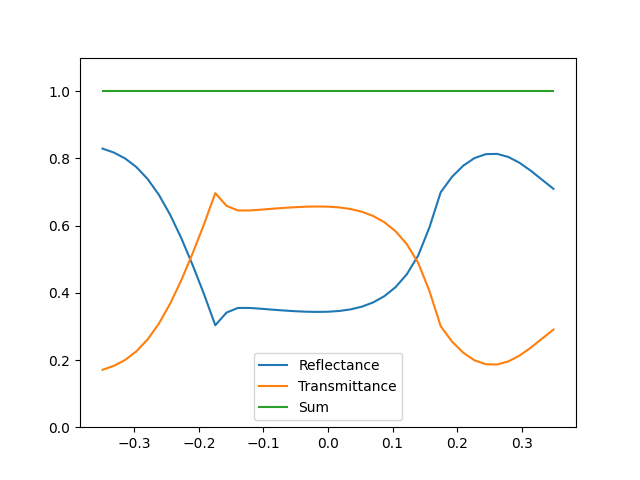
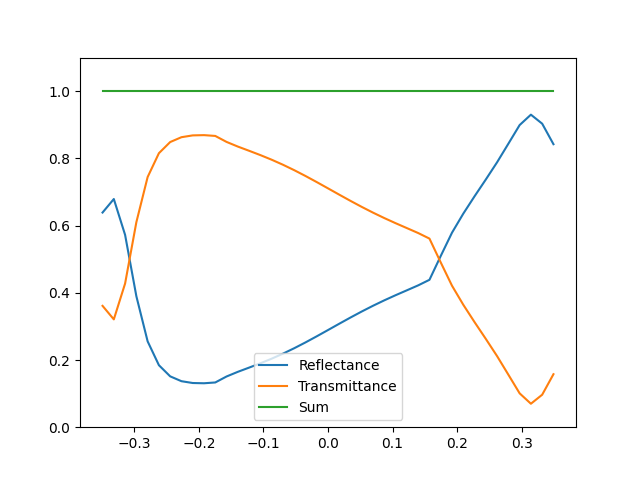
New figure

diff --git a/grcwa/ilic_replication/ilic_GRCWA_rt.py b/grcwa/ilic_replication/ilic_GRCWA_rt.py
@@ -5,7 +5,7 @@ from matplotlib import pyplot as plt
 Being numerical in nature, I need to define the truncation order of the fourier decomposition as well as the resolution of the unit cell.
 '''
 # Truncation order
-nG = 30
+nG = 50
 # Resolution 
 Nx = 10000
 Ny = 1
@@ -17,38 +17,35 @@ of subwavelength thickness. The side-view looks like
 
      w_1      w_2
   <------>   <--->
-   ______     ____               ^ z
-  |      |   |    |              |
-__|      |___|    |___           X-----> x
+   ____     ______               ^ z
+  |    |   |      |              |
+__|    |___|      |___           X-----> x
 -----|---------|----->            y
     x_1       x_2
 
-<--------- d -------->
+<----- d ----->
 
 The resonators are made of silicon, while the substrate is SiO2 (silicon dioxide). The
 height of both the resonators and the substrate is 0.5 microns. Ilic & Atwater use
-d = 1.8 microns; x_1 = 0.25d; x_2 = 0.85d; w_1 = 0.15d; w_2 = 0.35d. 
+d = 1.8 microns; x_1 = 0.25d; x_2 = 0.85d; w_1 = 0.35d; w_2 = 0.15d. 
 
 They also assume an incident beam of lambda = 1.5 microns. Note that natural units
 measure distance in units of the Bohr radius. 
 '''
-# Micron           
-
 # Defining Ilic dimensions
 d = 1.8  # unit cell width
 dy = 1e-4
-x1 = 0.85*d # positions of blocks in unit cell
-x2 = 0.25*d 
-w1 = 0.15*d # width of blocks in unit cell
-w2 = 0.35*d
+x1 = 0.25*d # positions of blocks in unit cell
+x2 = 0.85*d 
+w1 = 0.35*d # width of blocks in unit cell
+w2 = 0.15*d
 
 h = 0.5  # thickness of resonator layer
 t = 0.5  # also equal to thickness of substrate layer
 
 wavelength = 1.5
 freq = 1./wavelength
-thetas = np.linspace(-20*np.pi/180, 20*np.pi/180, 41)
-phi = 0.
+thetas = np.linspace(-20*np.pi/180, 20*np.pi/180, 81)
 
 '''
 By convention, GRCWA uses:
@@ -58,14 +55,14 @@ By convention, GRCWA uses:
 Similar to the natural units of particle and atomic physics. I will choose the permitivity of the dielectric material to be 10, and the width of the square unit cell to be 1.5. 
 '''
 E_vacuum = 1.
-E_Si = 3.5**2    # https://refractiveindex.info/ with k = n^2 (dielectric constant, refractive index)
+E_Si = 3.5**2     # https://refractiveindex.info/ with k = n^2 (dielectric constant, refractive index)
 E_SiO2 = 1.45**2  # https://refractiveindex.info/ with k = n^2 (dielectric constant, refractive index)
 
 
 '''
 The lattice is made below.
 '''
-# Lattice constants. I will consider a lattice with square-shaped unit cells of size d x d (in natural units specified above)
+# Lattice constants. I will consider a lattice with thin near-1D unit cell of size d x 1e-4
 L1 = [d, 0]
 L2 = [0, dy]
 
@@ -76,55 +73,58 @@ x0 = np.linspace(0,d,Nx)
 y0 = np.linspace(0,dy,Ny)
 x, y = np.meshgrid(x0,y0, indexing='ij')
 # The design will be completely uniform in the y-direction.
-filter = (abs(x-x1) < w1/2) | (abs(x-x2) < w2/2)
+filter = (abs(x-x1) <= w1/2) | (abs(x-x2) <= w2/2)
 cell_geometry[filter] = E_Si
 
 # Visualising the unit cell
-# plt.imshow(cell_geometry, interpolation='nearest')
-# plt.xlabel("x")
-# plt.ylabel("y")
-# plt.show()
+plt.imshow(cell_geometry, interpolation='nearest', aspect='auto')
+plt.xlabel("y")
+plt.ylabel("x")
+plt.show()
 
 '''
 Setting up the RCWA
                                  _________
                                   Layer 0 (vacuum)
-    ___     ______               _________
-   |   |   |      |               Layer 1 (pattern)
- __|   |___|      |__            _________
+    _____     ____               _________
+   |     |   |    |               Layer 1 (pattern)
+ __|     |___|    |__            _________
 |                    |   ...      Layer 2 (surface)
 |____________________|           _________
                                   Layer 3 (vacuum)
                                  _________
 '''
-Rs = []
-Ts = []
-RplusTs = []
-for theta in thetas:
-   print("theta: {:g}".format(theta*180/np.pi))
-   obj = grcwa.obj(nG,L1,L2,freq,theta,phi,verbose=0)
+orders = [-1,0,1,'Total']
+# Rows of Ris and Tis will contain reflection/transmission coefficients for various orders (columns) at various angles of incidence (rows)
+Rs = np.empty(len(thetas))
+Ts = np.empty(len(thetas))
+RplusTs = np.empty(len(thetas))
+
+for j in range(0,len(thetas)):
+   theta = thetas[j]
+   print("Angle of incidence: {:.2f}".format(theta*180/np.pi))
+   obj = grcwa.obj(nG,L1,L2,freq,theta,phi=0,verbose=0)
    # input layer information
-   obj.Add_LayerUniform(1,E_vacuum)     # Layer 0
+   obj.Add_LayerUniform(0,E_vacuum)     # Layer 0
    obj.Add_LayerGrid(h,Nx,Ny)           # Layer 1
-   obj.Add_LayerUniform(h,E_SiO2)   # Layer 2
-   obj.Add_LayerUniform(1,E_vacuum)     # Layer 3
+   obj.Add_LayerUniform(t,E_SiO2)       # Layer 2
+   obj.Add_LayerUniform(0,E_vacuum)     # Layer 3
    obj.Init_Setup()
 
    # planewave excitation
    planewave={'p_amp':0,'s_amp':1,'p_phase':0,'s_phase':0}
-   obj.MakeExcitationPlanewave(planewave['p_amp'],planewave['p_phase'],planewave['s_amp'],planewave['s_phase'],order = 0)
+   obj.MakeExcitationPlanewave(planewave['p_amp'],planewave['p_phase'],planewave['s_amp'],planewave['s_phase'],order = 0)   # <----------- WHAT IS ORDER HERE?
    # eps in patterned layer
    obj.GridLayer_geteps(cell_geometry.flatten())
    # compute reflection and transmission
    R,T= obj.RT_Solve(normalize=1)
-   Rs.append(R)
-   Ts.append(T)
-   RplusTs.append(R+T)
+   Rs[j] = R
+   Ts[j] = T
+   RplusTs[j] = R+T
    # compute reflection and transmission by order
    # Ri(Ti) has length obj.nG, too see which order, check obj.G; too see which kx,ky, check obj.kx obj.ky
    # Ri,Ti= obj.RT_Solve(normalize=1,byorder=1)
    # ords = obj.G # Returns a list of tuples [ord1, ord2] where ord1 is the order in the L1 direction, while ord2 is the order in the L2 direction.
-
 
 plt.plot(thetas, Rs)
 plt.plot(thetas, Ts)
@@ -132,24 +132,5 @@ plt.plot(thetas, RplusTs)
 plt.legend(['Reflectance', 'Transmittance', 'Sum'])
 plt.ylim([0,1.1])
 
-plt.savefig('ISB B/grcwa/ilic_replication/figs/ilic_GRCWA_rt_nG{}'.format(nG))
+plt.savefig('grcwa/ilic_replication/figs/ilic_GRCWA_rt_nG{}'.format(nG))
 plt.show()
-
-
-
-
-
-
-# Questions:
-
-# 1. What polarisation are we looking at and why? Is it p- or s-polarisation?
-#    A. Either works. Laser light is typically polarised. If the sail rotates along the laser beam axis, then the p- and s- polarisations change.
-
-# 2. What is truncation order?
-
-# 3. Is it necessary to sandwich the sail between vacuum layers with this code?
-
-# 4. What is Gmethod?
-#    A. See documentation this is for the Fourier space truncation.
-
-# NEXT STEP: DO FOR DIFFERENT ORDERS

diff --git a/grcwa/ilic_replication/ilic_GRCWA_rtmodes_conservation.py b/grcwa/ilic_replication/ilic_GRCWA_rtmodes_conservation.py
@@ -130,8 +130,8 @@ for j in range(0,len(thetas)):
     for i in orders:
         if type(i)==int:
             # Calculate reflection and transmission at angle=theta for various orders i=0,1,-1
-            Rs = np.append(Rs, sum(Ri[ords[:,0] == i]))
-            Ts = np.append(Ts, sum(Ti[ords[:,0] == i]))
+            Rs = np.array([sum(Ri[ords[:,0] == i])])
+            Ts = np.array([sum(Ti[ords[:,0] == i])])
         else:
             # Sum of reflection and transmission in particular order
             R_plus_Ts = np.append(Rs_plus_Ts, sum(Ri) + sum(Ti))
